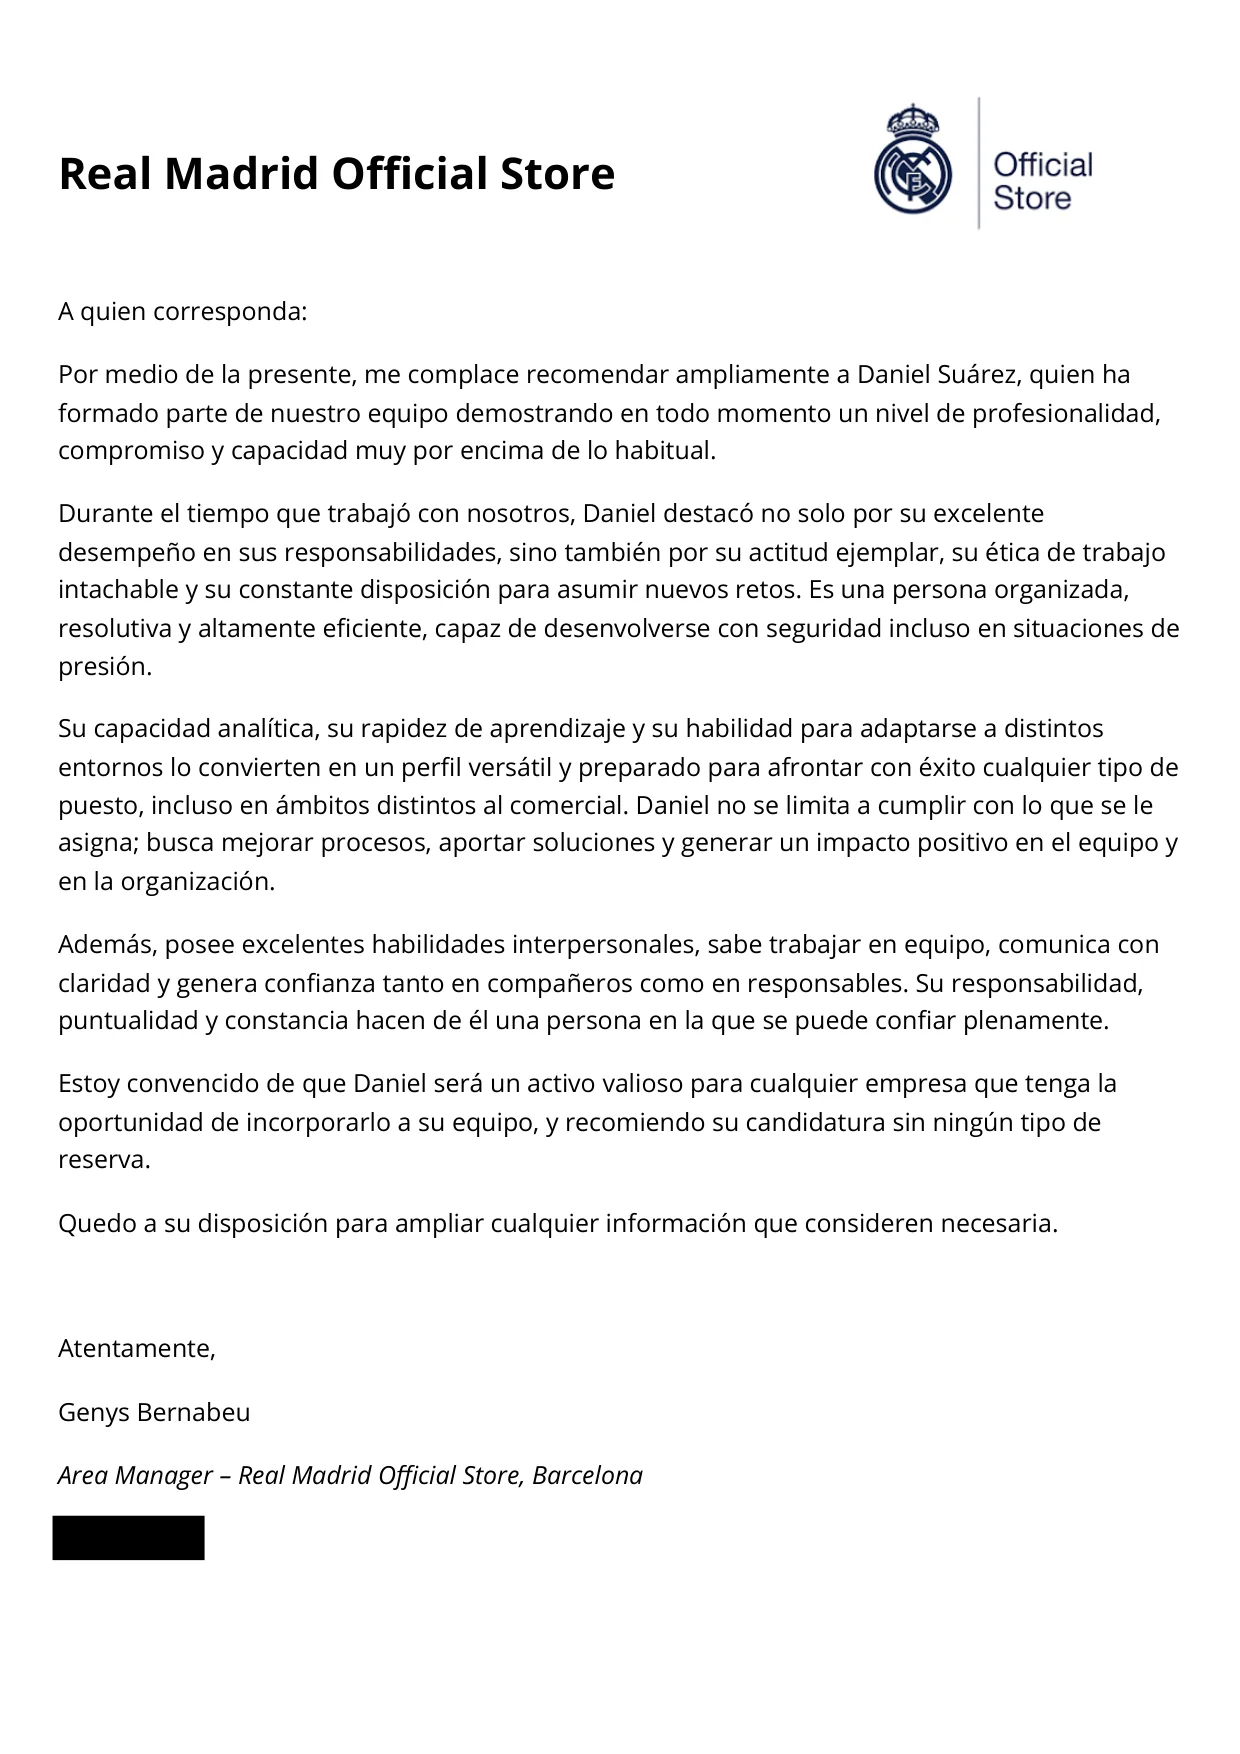
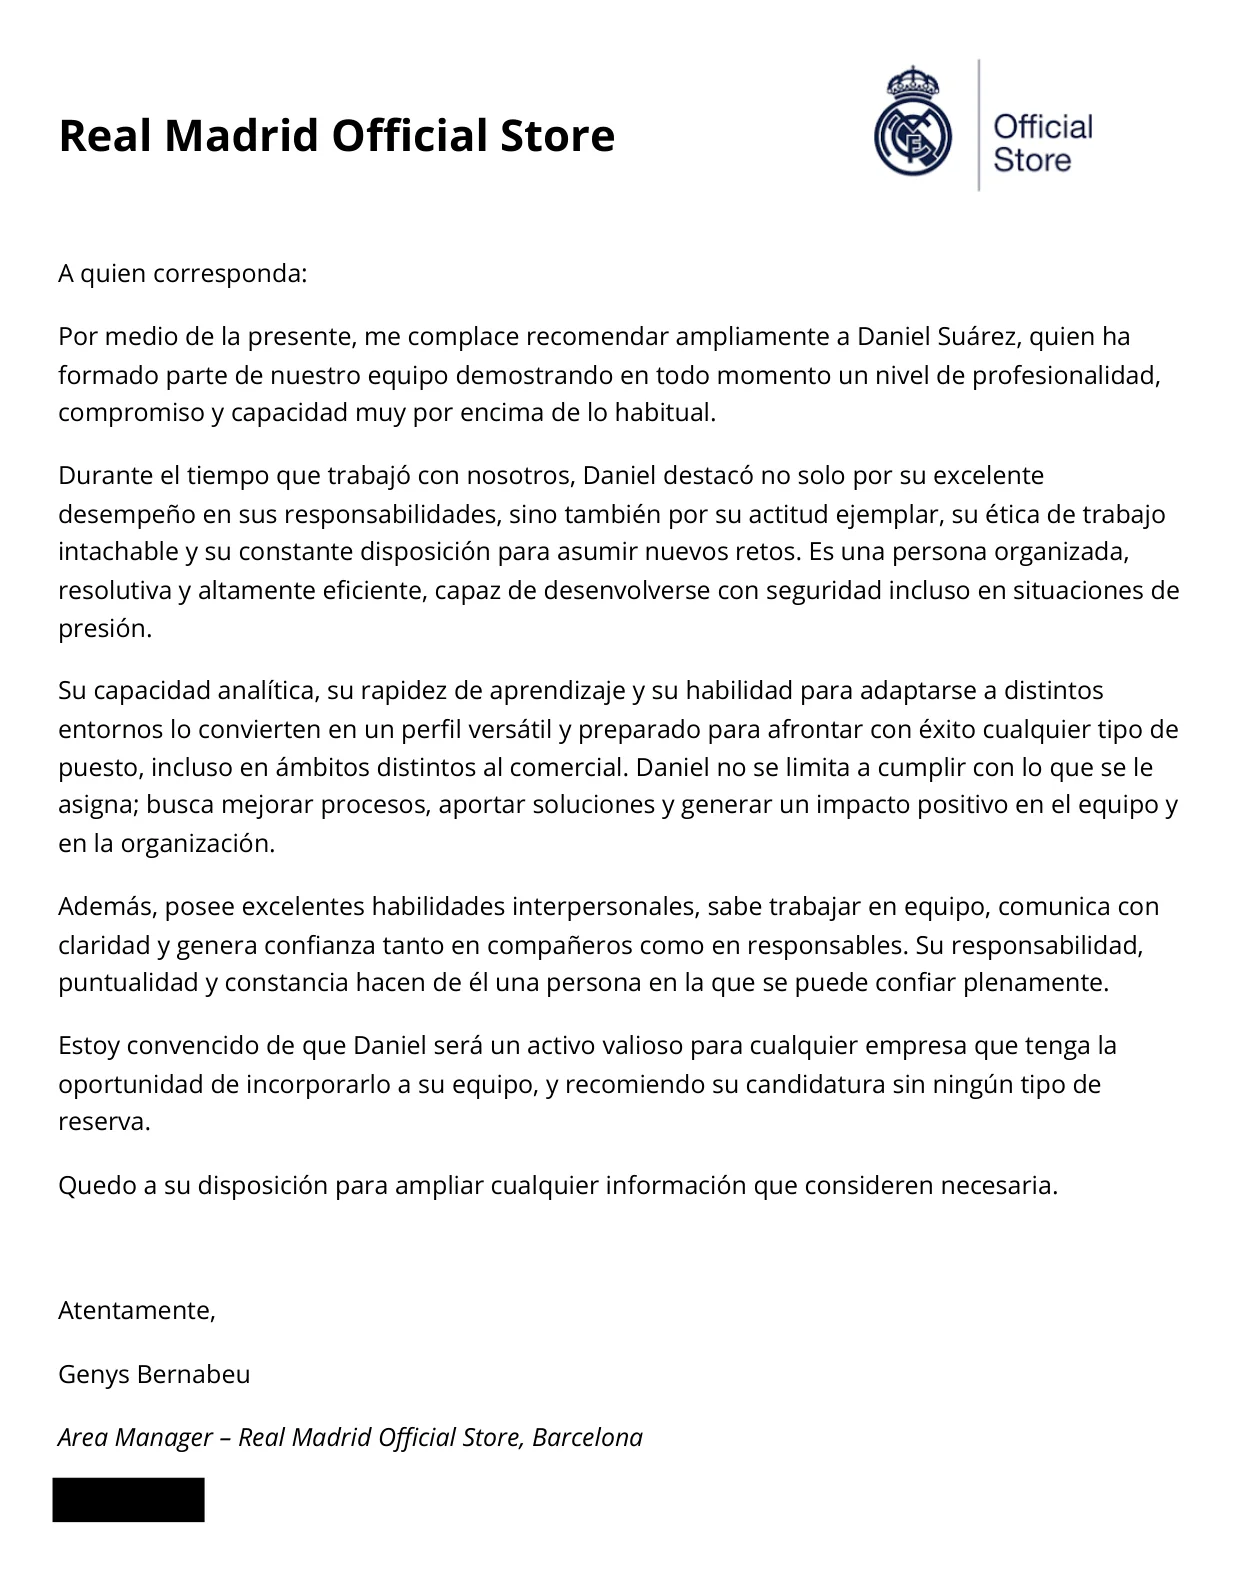
Carta: recorta el blanco sobrante arriba y abajo de la imagen y el aviso en inglés se coloca bajo la carta

diff --git a/recomendaciones/real-madrid-official-store/index.html b/recomendaciones/real-madrid-official-store/index.html
@@ -149,11 +149,11 @@
   }
   .lang-switch button[aria-pressed="true"]{color:#fff;}
   .lang-switch button:focus-visible{outline:2px solid var(--accent);outline-offset:2px;}
-  /* Versión inglesa: aviso translúcido sobre la carta que lleva a la traducción.
-     Va "pegado" al borde inferior de la pantalla mientras se ve la carta y descansa al final de ella. */
+  /* Versión inglesa: aviso translúcido que lleva a la traducción.
+     Va "pegado" al borde inferior de la pantalla sobre la carta y, al llegar al final, se queda justo debajo de ella. */
   .to-tr{
     position:sticky;bottom:20px;z-index:2;display:none;align-items:center;gap:10px;width:max-content;max-width:calc(100% - 32px);
-    height:46px;margin:-76px auto 30px;padding:0 18px 0 20px;border-radius:999px;
+    height:46px;margin:16px auto 0;padding:0 18px 0 20px;border-radius:999px;
     font:600 .92rem/1.2 var(--font);color:#fff;text-decoration:none;
     background:rgba(8,11,20,.58);-webkit-backdrop-filter:blur(14px) saturate(1.4);backdrop-filter:blur(14px) saturate(1.4);
     box-shadow:inset 0 0 0 1px rgba(255,255,255,.18),0 18px 40px -16px rgba(0,0,0,.7);
@@ -168,7 +168,7 @@
   .translation{scroll-margin-top:24px;}
   @media (max-width:640px){
     .translation{padding:22px 20px;}
-    .to-tr{height:42px;margin:-66px auto 24px;padding:0 16px 0 18px;font-size:.86rem;}
+    .to-tr{height:42px;margin:14px auto 0;padding:0 16px 0 18px;font-size:.86rem;}
   }
   @media (max-width:400px){
     .top-actions{gap:8px;}
@@ -211,9 +211,8 @@
   <div class="frame">
     <!-- La carta original como imagen (enlaza al PDF) -->
     <a class="paper paper-img" href="/cv/recomendaciones/real-madrid-official-store/carta-recomendacion.pdf" target="_blank" rel="noopener" aria-label="Abrir la carta original en PDF / Open the original letter as PDF">
-      <img src="/cv/recomendaciones/real-madrid-official-store/carta-820.webp" srcset="/cv/recomendaciones/real-madrid-official-store/carta-820.webp 820w, /cv/recomendaciones/real-madrid-official-store/carta-1240.webp 1240w, /cv/recomendaciones/real-madrid-official-store/carta-1640.webp 1640w" sizes="(max-width: 776px) calc(100vw - 32px), 720px" width="1640" height="2319" fetchpriority="high" alt="">
+      <img src="/cv/recomendaciones/real-madrid-official-store/carta-820.webp" srcset="/cv/recomendaciones/real-madrid-official-store/carta-820.webp 820w, /cv/recomendaciones/real-madrid-official-store/carta-1240.webp 1240w, /cv/recomendaciones/real-madrid-official-store/carta-1640.webp 1640w" sizes="(max-width: 776px) calc(100vw - 32px), 720px" width="1640" height="2097" fetchpriority="high" alt="">
     </a>
-    <a class="to-tr" href="#translation" lang="en">English version below<svg viewBox="0 0 256 256" fill="currentColor" aria-hidden="true"><path d="M204.24,148.24l-72,72a6,6,0,0,1-8.48,0l-72-72a6,6,0,0,1,8.48-8.48L122,201.51V40a6,6,0,0,1,12,0V201.51l61.76-61.75a6,6,0,0,1,8.48,8.48Z"/></svg></a>
     <!-- El texto de la carta, para lectores de pantalla -->
     <article class="paper letter" lang="es" aria-label="Carta de recomendación (texto original)">
       <p class="letterhead">Real Madrid Official Store</p>
@@ -230,6 +229,7 @@
       <p><span class="redacted" role="img" aria-label="Teléfono omitido por privacidad"></span></p>
     </article>
   </div>
+  <a class="to-tr" href="#translation" lang="en">English version below<svg viewBox="0 0 256 256" fill="currentColor" aria-hidden="true"><path d="M204.24,148.24l-72,72a6,6,0,0,1-8.48,0l-72-72a6,6,0,0,1,8.48-8.48L122,201.51V40a6,6,0,0,1,12,0V201.51l61.76-61.75a6,6,0,0,1,8.48,8.48Z"/></svg></a>
   <p class="note"><span class="t-es">Teléfono de contacto omitido por privacidad</span><span class="t-en" lang="en">Contact phone number omitted for privacy</span></p>
   <section class="translation only-en" id="translation" lang="en" aria-labelledby="tr-title">
     <h2 id="tr-title">English translation <span>· unofficial</span></h2>
